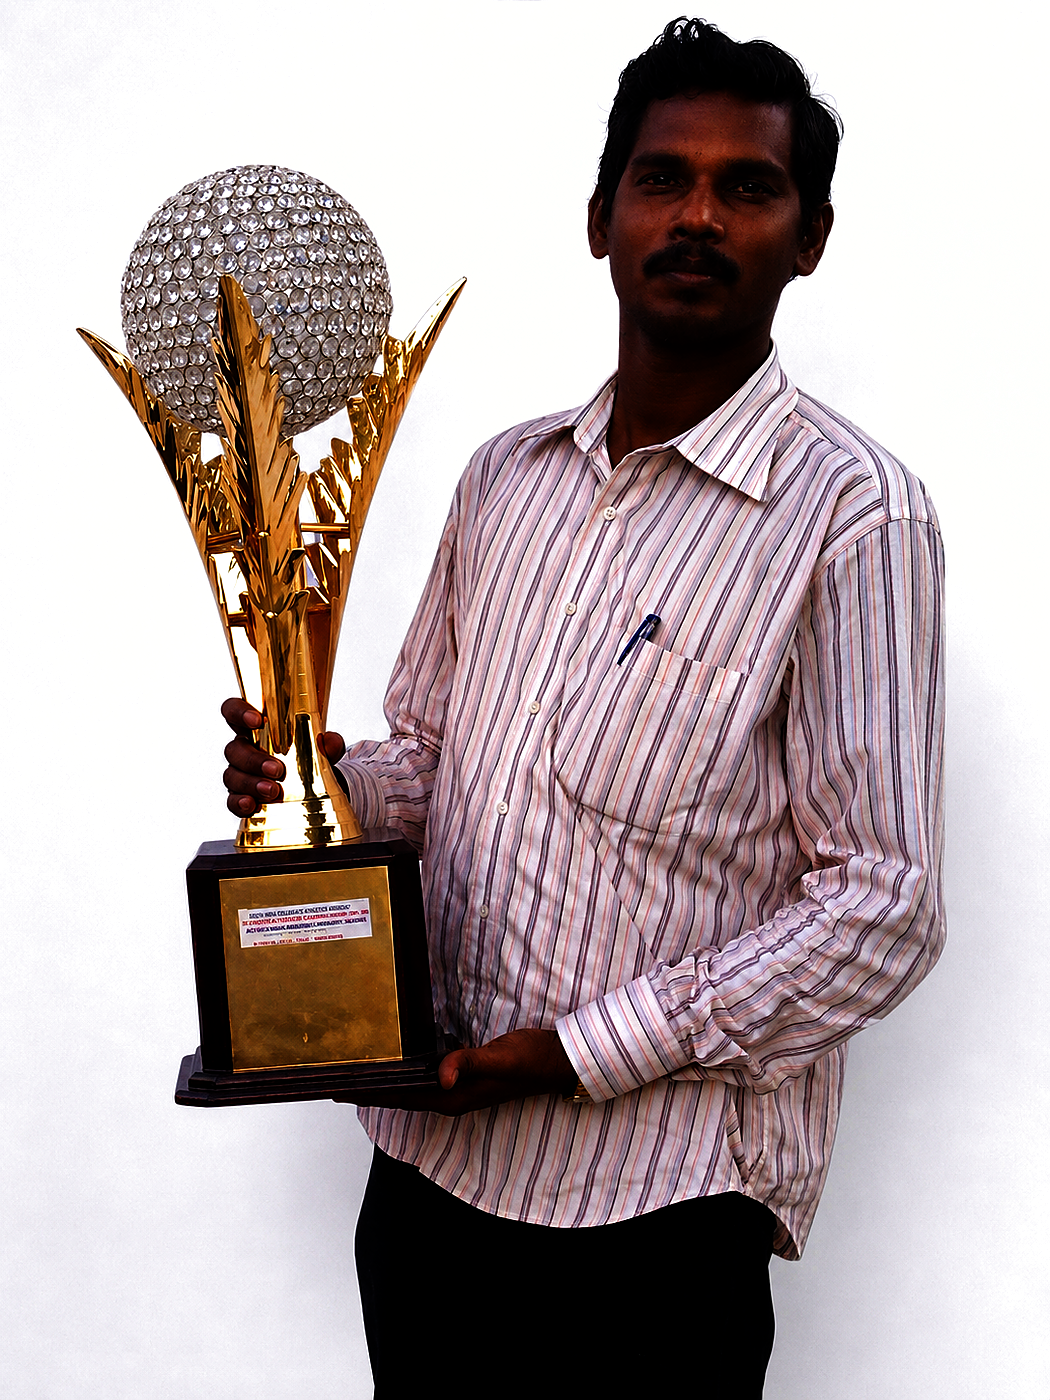
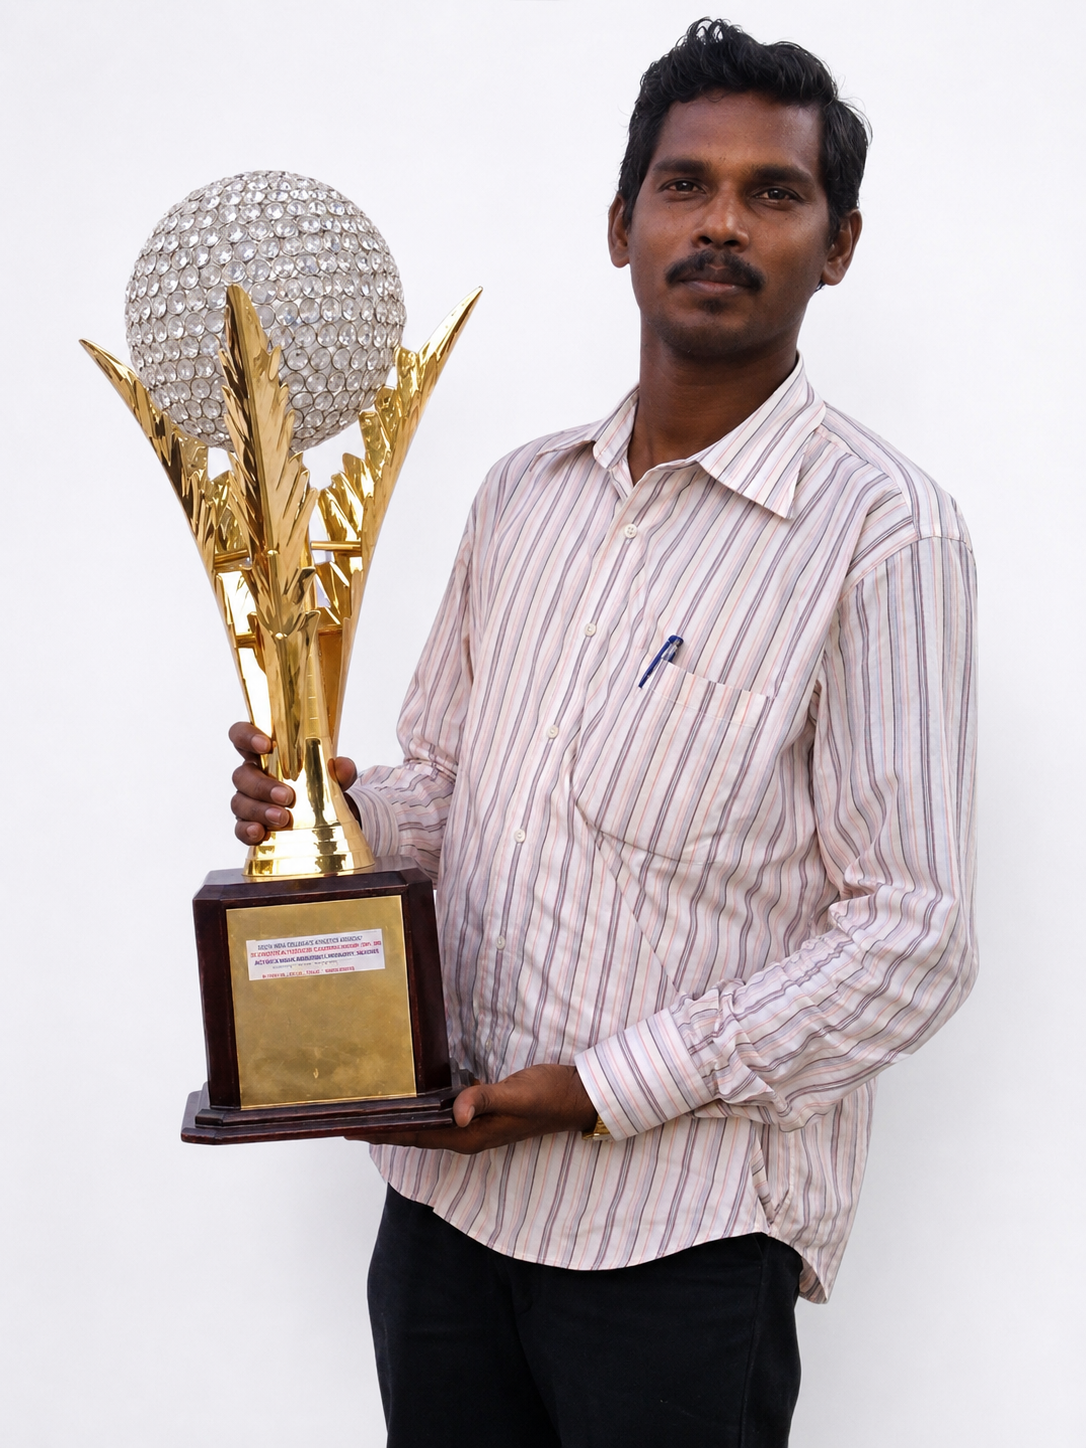
fix(academy-public): use raw hero photo (no enhancement); card aspect 3/4 + object-position top so head stays fully visible

diff --git a/v2/apps/web/src/pages/AcademyPublic.tsx b/v2/apps/web/src/pages/AcademyPublic.tsx
@@ -2014,8 +2014,8 @@ export default function AcademyPublicPage() {
           pointer-events: none;
         }
         /* Small portrait card on the board */
-        .cg-civ-hv-card { position: absolute; top: 8%; left: 18%; width: 52%; aspect-ratio: 5/6; border-radius: 12px; overflow: hidden; box-shadow: 0 12px 32px rgba(0,0,0,0.25); z-index: 2; background: #fff; border: 3px solid #fff; }
-        .cg-civ-hv-card img { width: 100%; height: 100%; object-fit: cover; display: block; }
+        .cg-civ-hv-card { position: absolute; top: 5%; left: 20%; width: 55%; aspect-ratio: 3/4; border-radius: 12px; overflow: hidden; box-shadow: 0 12px 32px rgba(0,0,0,0.25); z-index: 2; background: #fff; border: 3px solid #fff; }
+        .cg-civ-hv-card img { width: 100%; height: 100%; object-fit: cover; object-position: top center; display: block; }
         .cg-civ-hv-card-name { position: absolute; left: 8px; right: 8px; bottom: 8px; background: rgba(0,0,0,0.65); color: #fff; padding: 4px 8px; border-radius: 6px; font-size: 0.7rem; font-weight: 700; letter-spacing: 1px; text-align: center; }
         /* Yellow star badge floating top-right of the portrait */
         /* FIDE rating badge — small "Highest" label + big 2312 number stack */

diff --git a/v2/apps/web/public/sw.js b/v2/apps/web/public/sw.js
@@ -1,5 +1,5 @@
 // ChessGuru PWA service worker.
-const VERSION = "cg-20260815144728";
+const VERSION = "cg-20260815144904";
 const BASE = self.location.pathname.replace(/sw\.js$/, "");
 const SHELL = [BASE, BASE + "manifest.webmanifest", BASE + "icons/icon-192.png", BASE + "icons/icon-512.png"];
 const STATIC_RE = /\.(?:js|css|mjs|wasm|svg|png|jpg|jpeg|webp|gif|woff2?|ttf|otf|ico)$/;
